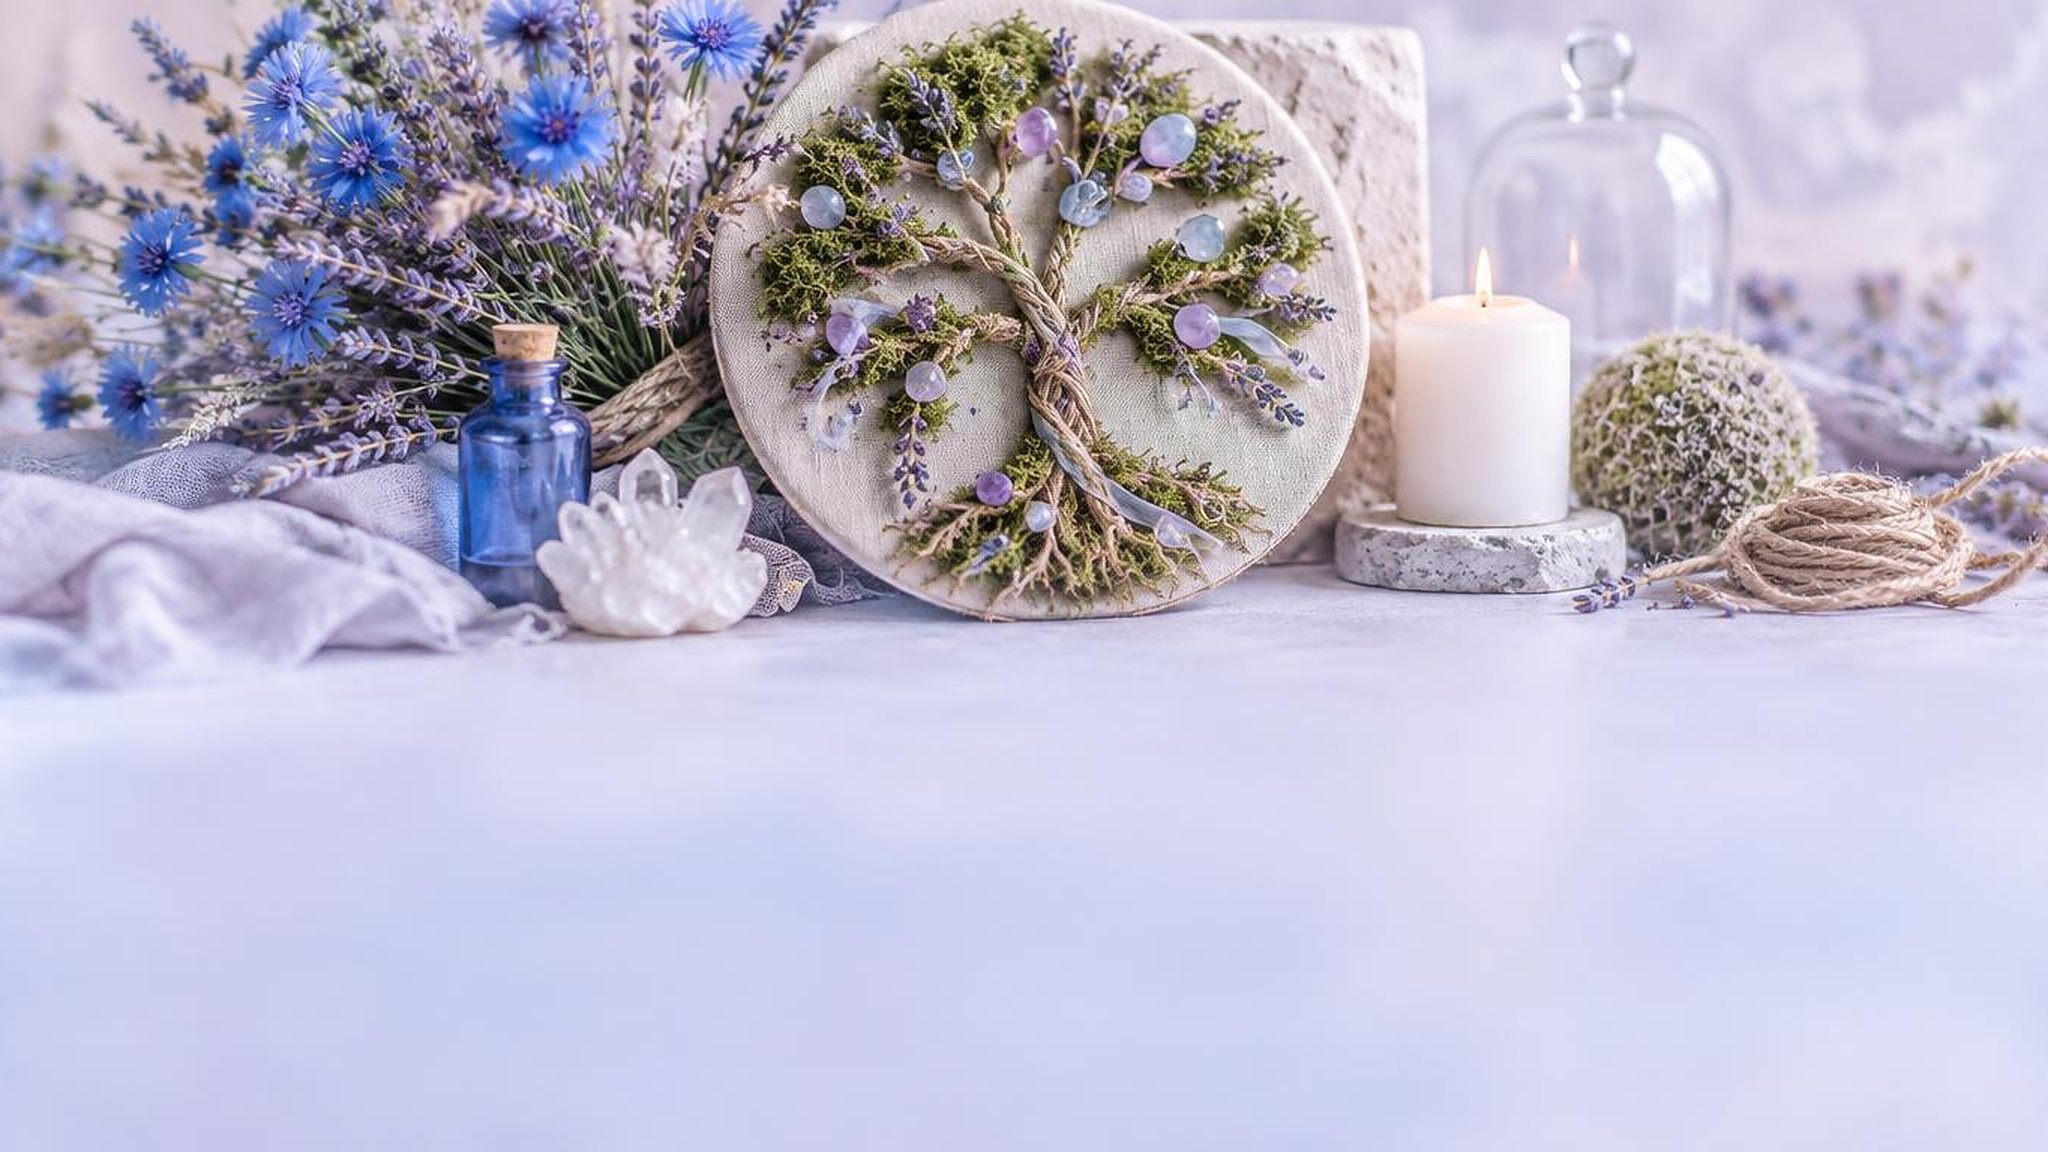
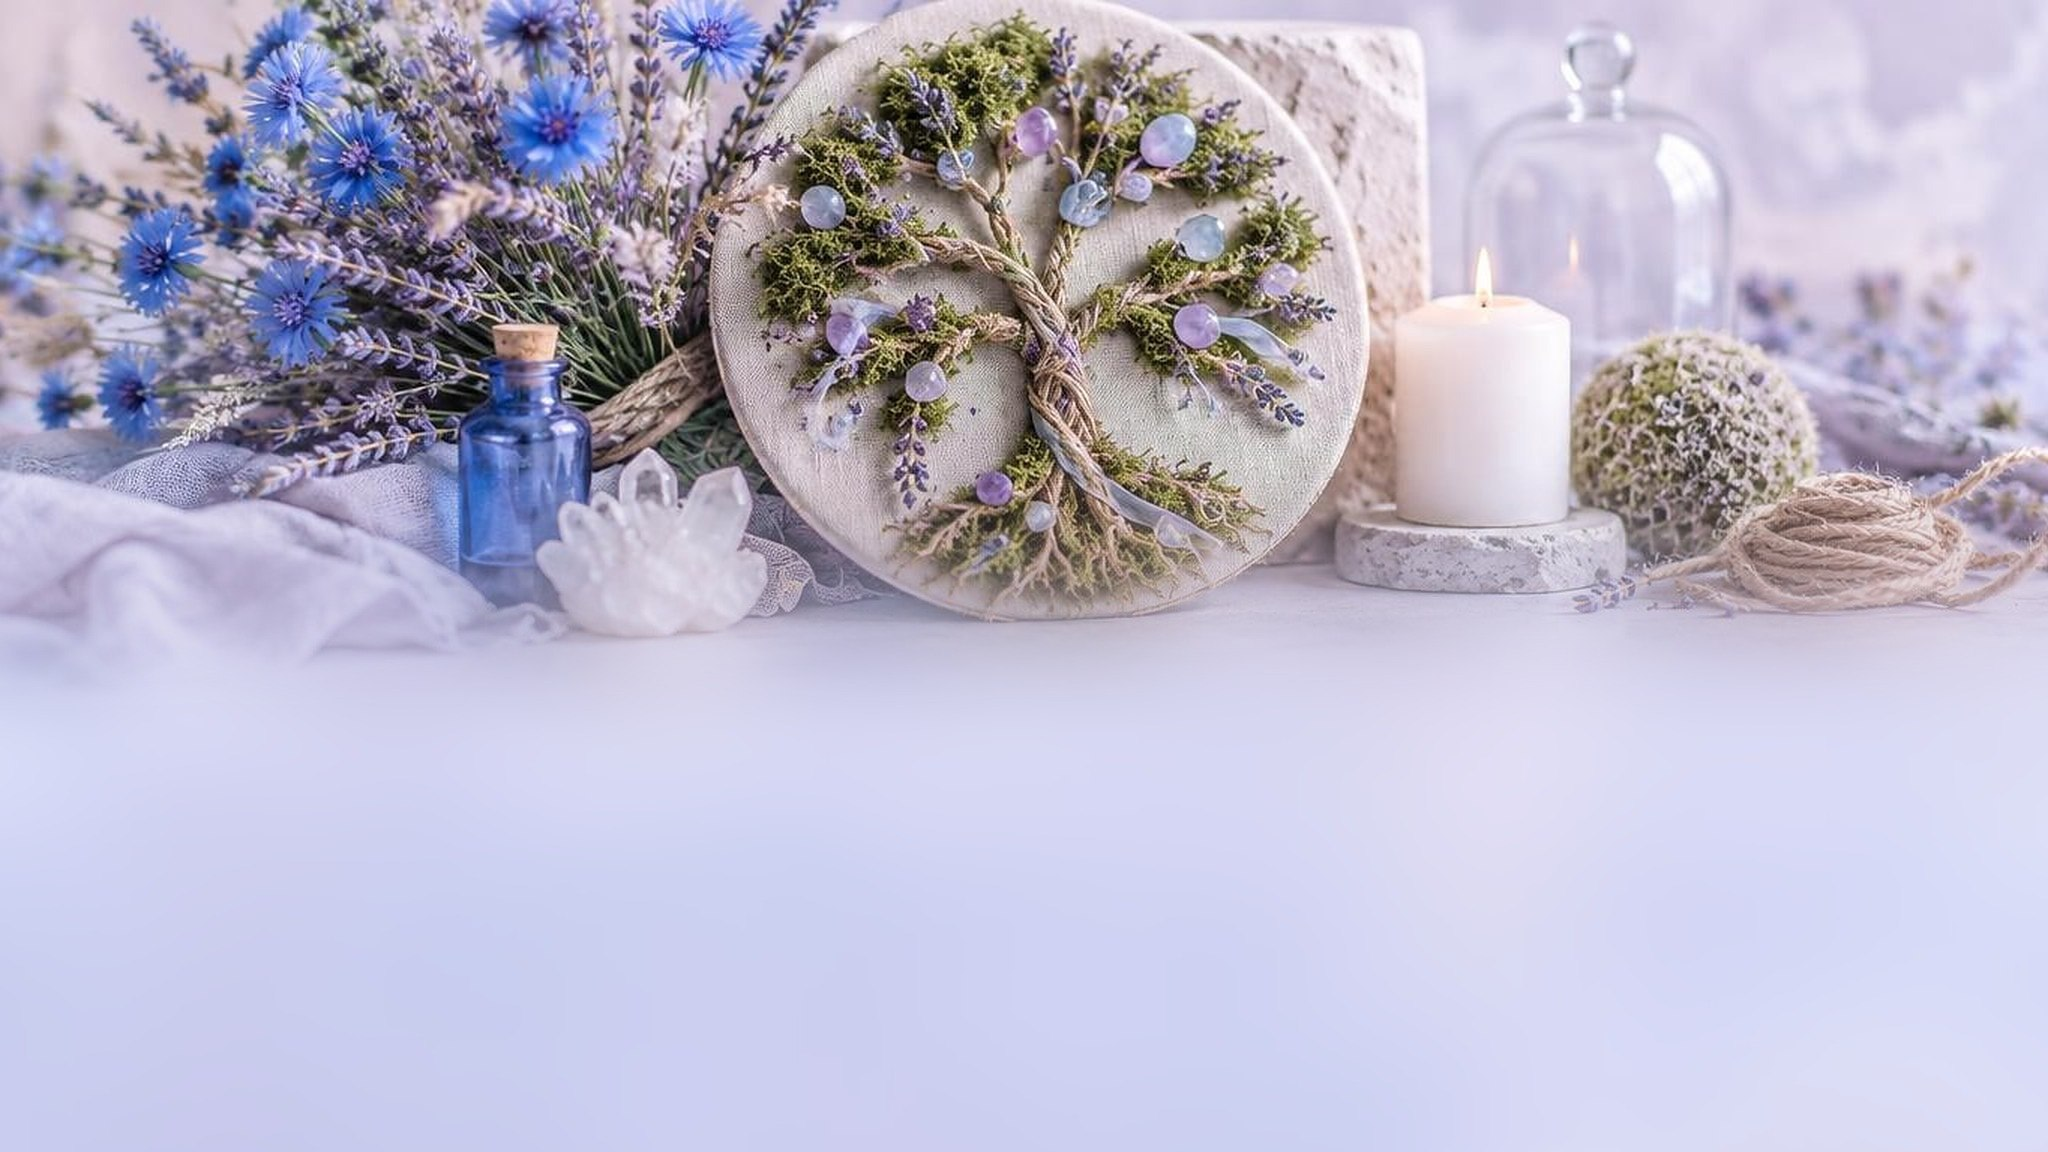
fix(hero): сглажен резкий стык в hero-картинках (ч/б переход → плавное боке)

Changed region(s): [[0.1562, 0.4375, 0.6562, 0.5938], [0.6562, 0.4688, 1.0, 0.5625], [0.0, 0.5, 0.0625, 0.5938]]

diff --git a/style.css b/style.css
@@ -137,7 +137,7 @@ a{color:inherit;text-decoration:none}
    Отдельным слоем, потому что на .hero__media висит параллакс из JS: инлайновый
    transform перебил бы CSS-анимацию. 34 с на проход, туда-обратно. */
 .hero__drift{position:absolute;inset:0 -5% -6% -5%;will-change:transform;
-  background-image:var(--hero-mobile,none),url('img/hero.jpg?v=68');
+  background-image:var(--hero-mobile,none),url('img/hero.jpg?v=69');
   background-size:cover;background-position:center,72% center;
   /* точка роста — верхний край: картинка «дышит» вниз, а верх композиции
      остаётся ровно на месте и никогда не срезается */
@@ -299,7 +299,7 @@ a{color:inherit;text-decoration:none}
    вниз — и они заезжают под текст. Здесь размер ровно по высоте слоя (auto 104%),
    верх прибит к верху героя, а запас на сдвиг даётся только по бокам. */
 @media (max-width:900px){
-  :root{--hero-mobile:url('img/hero-mobile.jpg?v=67')}
+  :root{--hero-mobile:url('img/hero-mobile.jpg?v=68')}
   .hero__media{inset:0}
   .hero__drift{inset:0 -3% 0 -3%;background-size:cover;background-position:50% 0}
   /* текст опускаем ниже предметов и собираем в ровный ритм:

diff --git a/index.html b/index.html
@@ -28,7 +28,7 @@
 <meta name="twitter:card" content="summary_large_image">
 <meta name="twitter:title" content="Семь ремёсел — видеокурсы Татьяны Солнечной">
 <meta name="twitter:image" content="https://makaka119911-oss.github.io/sem-remesel/img/preview-1200.jpg">
-<link rel="stylesheet" href="style.css?v=88">
+<link rel="stylesheet" href="style.css?v=89">
 </head>
 <body>
 
